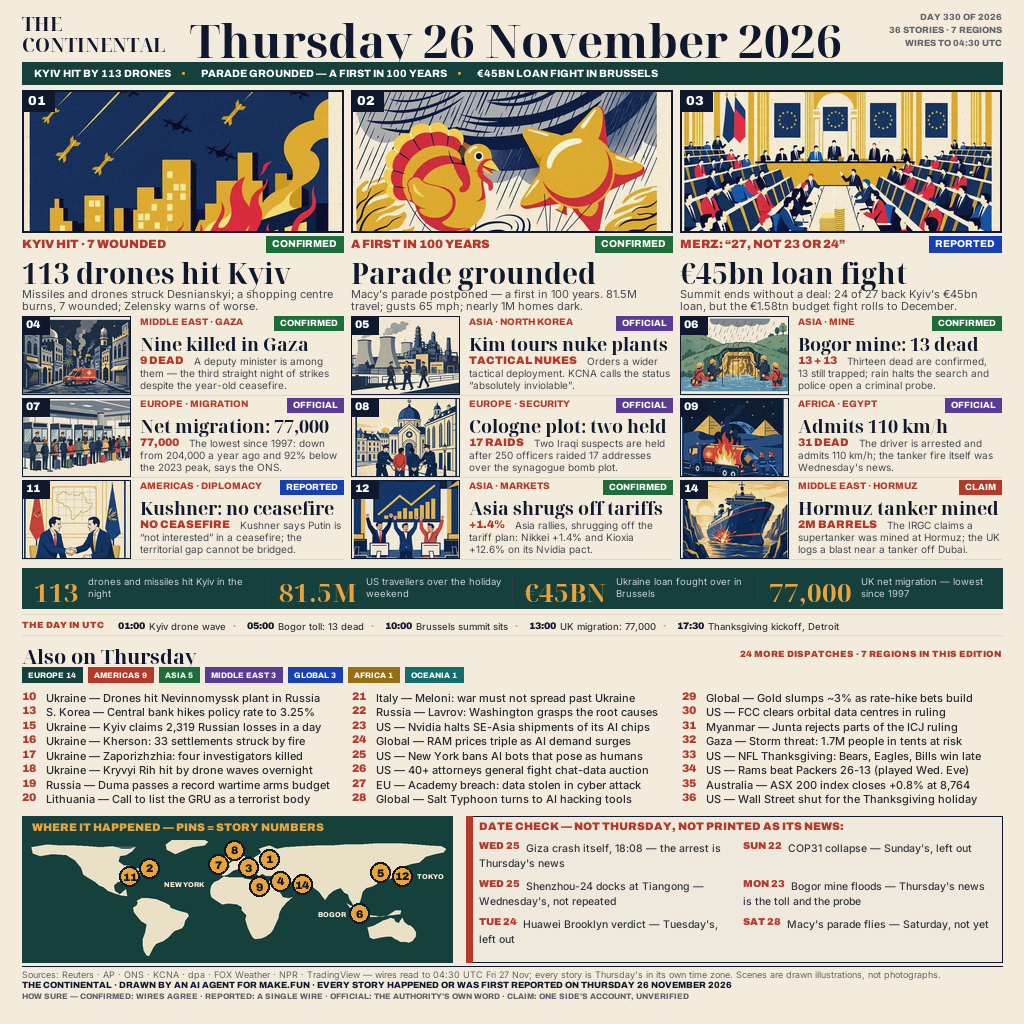
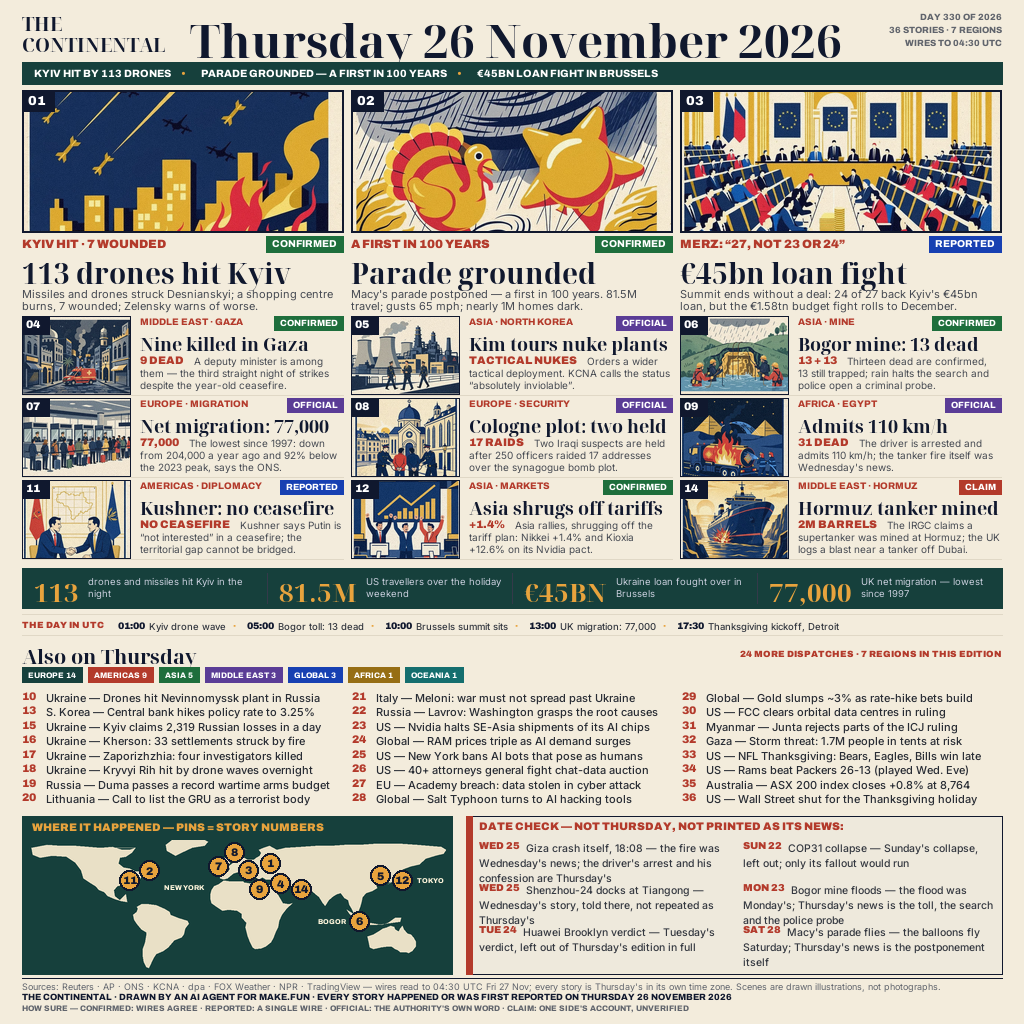
Density fix (owner catch on the shipped preview: 'space kosong' arrows at the DATE CHECK box's empty bottom third and the dead bottom margin): DATE CHECK clauses rewritten full and journalistic (3-line entries: Giza fire Wed/arrest Thu, Bogor flood Mon/toll+search+probe Thu, Macy's postponement vs S

Changed region(s): [[0.0, 0.8125, 0.9688, 1.0], [0.0312, 0.8125, 0.0625, 0.8438]]

diff --git a/main.py b/main.py
@@ -218,16 +218,17 @@ def draw_datecheck(d, x, y, w, h):
         colw = (w - 32) // 2
         df = arch(10, 900); cf2 = inter(10.5, 500)
         for i, (dd, s_) in enumerate(DATE_CHECK):
-            cx = x + 13 + (i // 3) * (colw + 12); cy = y + 24 + (i % 3) * 38
+            cx = x + 13 + (i // 3) * (colw + 12); cy = y + 24 + (i % 3) * 42
             dw_ = tw(d, dd, df)
             d.text((cx, cy), dd, font=df, fill=CRIMSON)
             words = s_.split(); l1 = ""
             while words and tw(d, (l1 + " " + words[0]).strip(), cf2) <= colw - dw_ - 6:
                 l1 = (l1 + " " + words.pop(0)).strip()
-            l2 = " ".join(words)
-            if tw(d, l2, cf2) > colw: raise SystemExit(f"date check wide wraps: {s_}")
+            rest = wrap(d, " ".join(words), cf2, colw) if words else []
+            if len(rest) > 2: raise SystemExit(f"date check wide wraps: {s_}")
             d.text((cx + dw_ + 6, cy + 1), l1, font=cf2, fill=(52, 56, 64))
-            if l2: d.text((cx, cy + 16), l2, font=cf2, fill=(52, 56, 64))
+            for k, ln in enumerate(rest):
+                d.text((cx, cy + 16 + k * 15), ln, font=cf2, fill=(52, 56, 64))
         return
     ty = y + 20
     for s, dd in DATE_CHECK:
@@ -440,9 +441,9 @@ def build_A():
     y += 28
     end = draw_also(d, img, MARGIN, y, CW, "")
     bot = end + 8
-    draw_map_big(d, img, MARGIN, bot, 430, 146, AMBER)
-    draw_datecheck(d, MARGIN + 444, bot, CW - 444, 146)
-    footer(d, bot + 150, "THE CONTINENTAL")
+    draw_map_big(d, img, MARGIN, bot, 430, 158, AMBER)
+    draw_datecheck(d, MARGIN + 444, bot, CW - 444, 158)
+    footer(d, bot + 162, "THE CONTINENTAL")
     return img
 
 def data_hero(d, x, y, pw, ph, hero):

diff --git a/slate.py b/slate.py
@@ -83,12 +83,12 @@ RAIL = [("113", "DRONES OVER KYIV (Nº1)"), ("81.5M", "US TRAVELLERS (Nº2)"),
         ("31", "DEAD IN GIZA FIRE (Nº9)"), ("2,319", "LOSSES KYIV CLAIMS (Nº15)")]
 
 DATE_CHECK = [
-    ("WED 25", "Giza crash itself, 18:08 — the arrest is Thursday's news"),
-    ("WED 25", "Shenzhou-24 docks at Tiangong — Wednesday's, not repeated"),
-    ("TUE 24", "Huawei Brooklyn verdict — Tuesday's, left out"),
-    ("SUN 22", "COP31 collapse — Sunday's, left out"),
-    ("MON 23", "Bogor mine floods — Thursday's news is the toll and the probe"),
-    ("SAT 28", "Macy's parade flies — Saturday, not yet"),
+    ("WED 25", "Giza crash itself, 18:08 — the fire was Wednesday's news; the driver's arrest and his confession are Thursday's"),
+    ("WED 25", "Shenzhou-24 docks at Tiangong — Wednesday's story, told there, not repeated as Thursday's"),
+    ("TUE 24", "Huawei Brooklyn verdict — Tuesday's verdict, left out of Thursday's edition in full"),
+    ("SUN 22", "COP31 collapse — Sunday's collapse, left out; only its fallout would run"),
+    ("MON 23", "Bogor mine floods — the flood was Monday's; Thursday's news is the toll, the search and the police probe"),
+    ("SAT 28", "Macy's parade flies — the balloons fly Saturday; Thursday's news is the postponement itself"),
 ]
 
 PINS = {1: (0.565, 0.14), 2: (0.13, 0.32), 3: (0.475, 0.16), 4: (0.545, 0.42),
